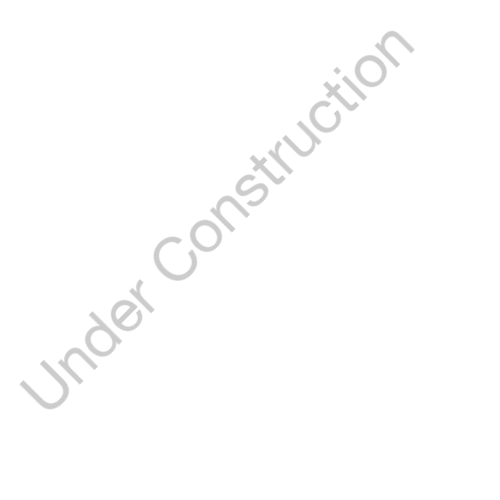
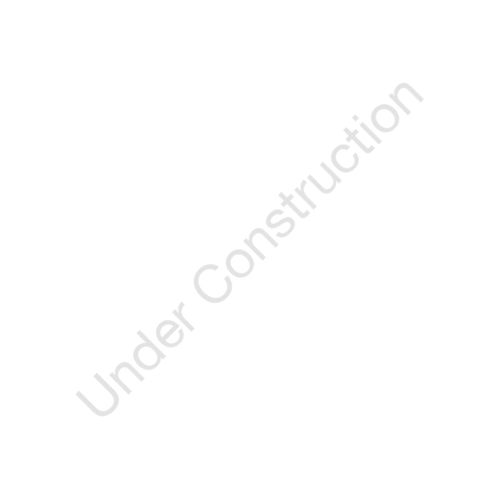
enabled -Under Construction- sign because website maybe be viewed by family and others

Changed region(s): [[0.3, 0.06, 0.84, 0.6], [0.06, 0.54, 0.39, 0.84], [0.03, 0.75, 0.06, 0.78]]

diff --git a/ai-card-player/styles/ai-card-player.css b/ai-card-player/styles/ai-card-player.css
@@ -22,11 +22,10 @@ body {
   /* max-width: 100%; */ /* Apple HGI webpage */
   min-width: 20em; /* approximately 320px; e.g., Apple HGI webpage */
   overflow-x: hidden; /* Apple HGI webpage */
-/*
+
   background-image: url(../media/images/underConstruction.png);
   background-repeat: no-repeat;
-  background-position: center 3em;;
-*/
+  background-position: center 100px;
 }
 
 /* The following settings were inspired by Peterson's "Learning Responsive Web Design" section "Typography". */
